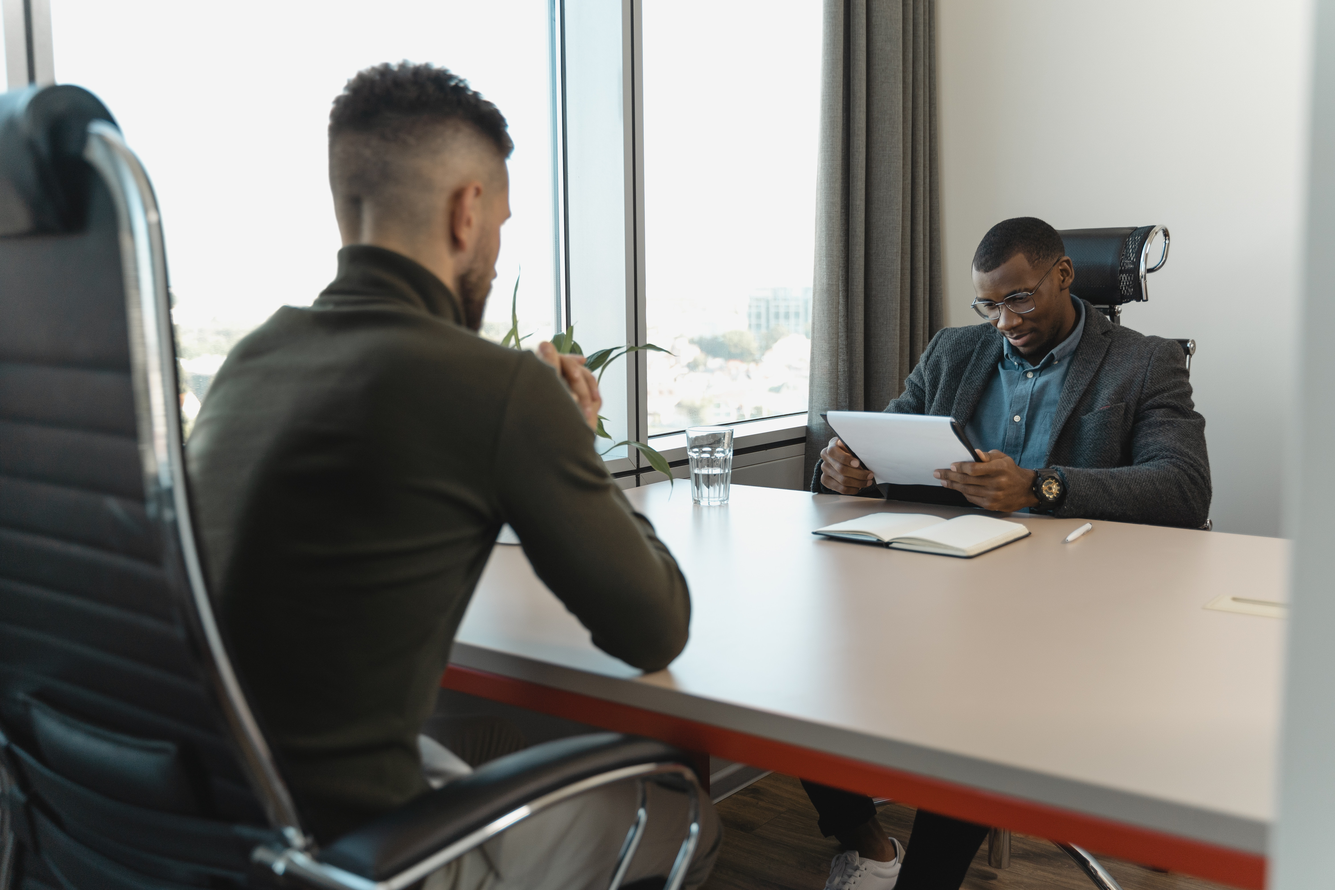
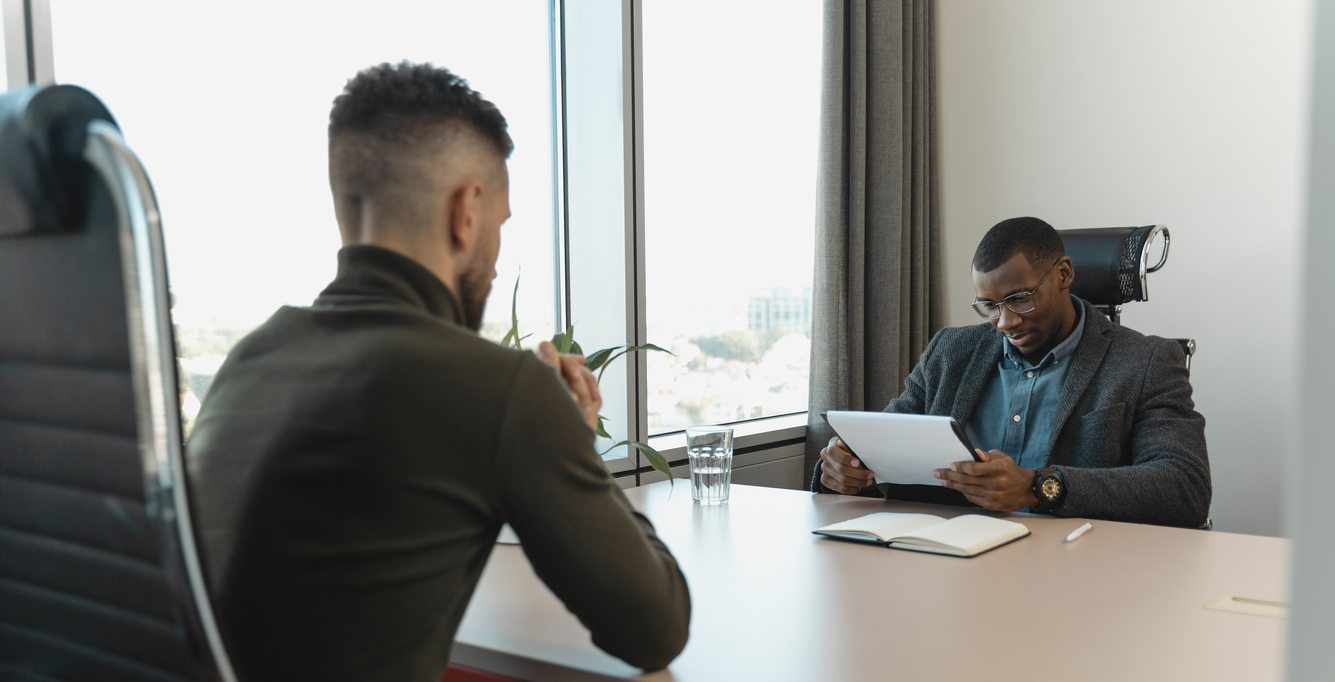
fix: 모바일에서 메인이미지 하단공백이 너무 긴 오류 수정

diff --git a/src/pages/main.jsx b/src/pages/main.jsx
@@ -20,7 +20,7 @@ function FirstSection(props){
         <div style={{marginLeft:"5px", color:"#9a3838"}}>두려움</div>
         <div>을 느끼고 계신가요?</div>
       </TypeIt>
-      <div className={`fadeInUpEffect animation-delay-1`} style={{marginBottom:"2em", height:"480px", overflow:"hidden"}}>
+      <div className={`fadeInUpEffect animation-delay-1`} style={{marginBottom:"2em", overflow:"hidden"}}>
         <img src={MainImage} alt="main" style={{width:"100%"}} />
       </div>
       <div className={`fadeInUpEffect animation-delay-3`}>
